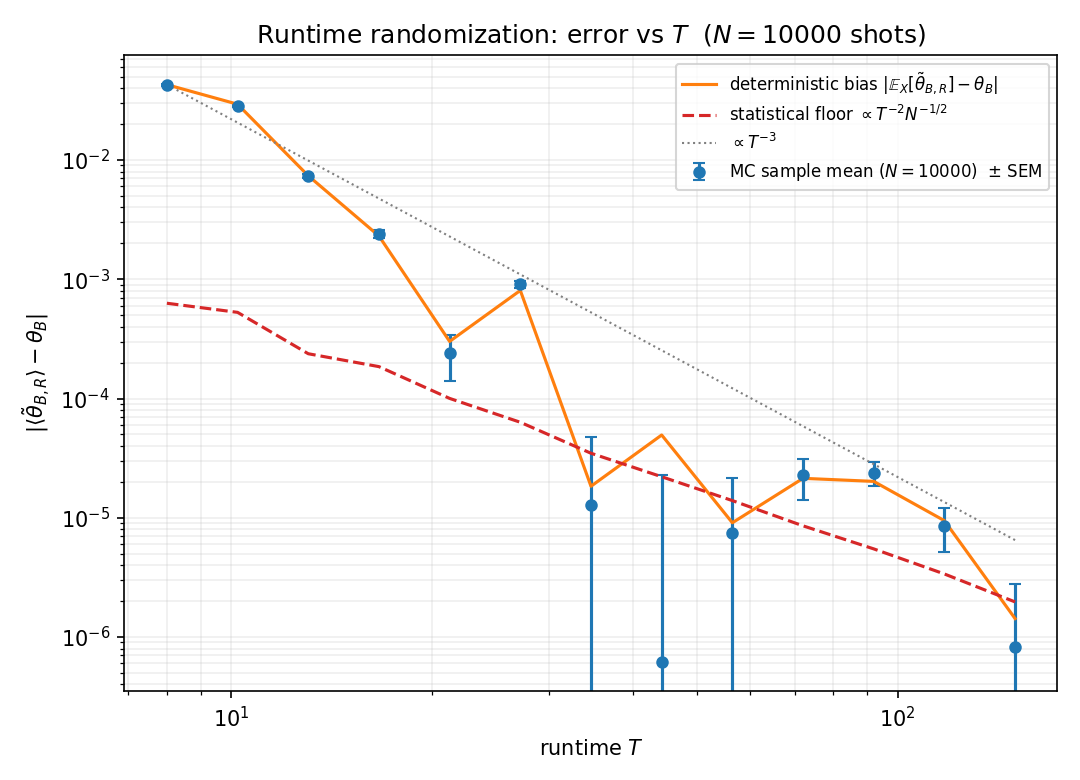
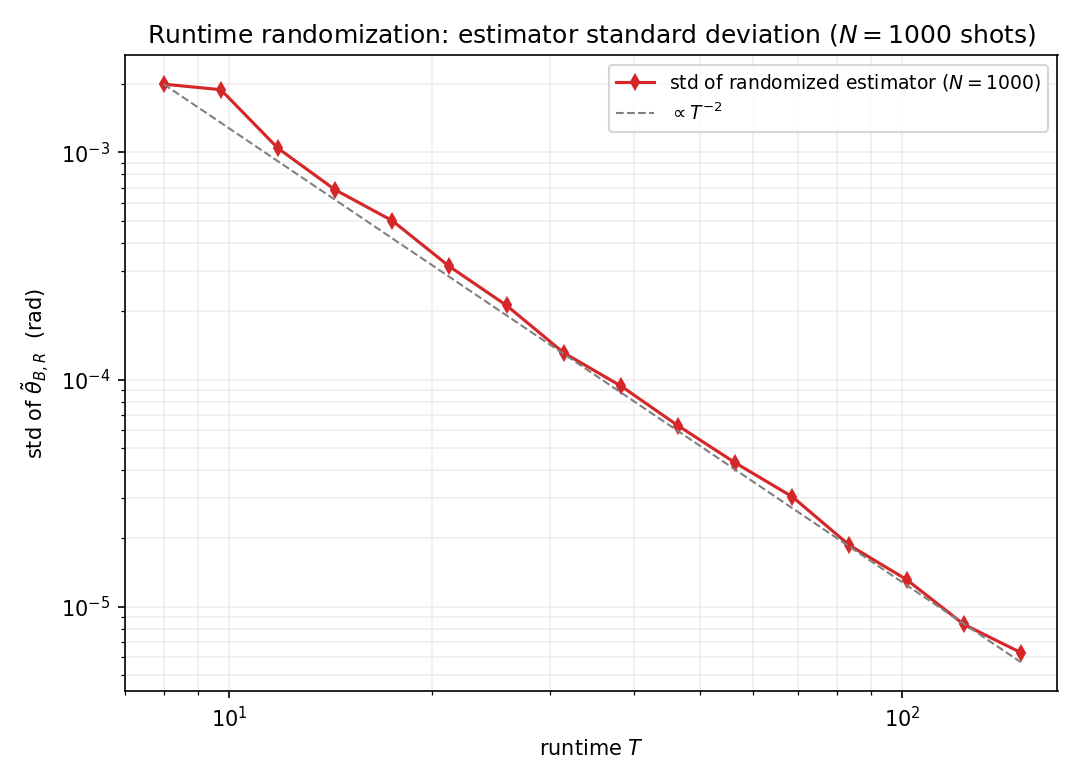
Report randomization as estimator std (~T^-2); clean up figures
- Randomization curve is now the standard deviation sigma_N = std/sqrt(N) of the
  N=1000 randomized estimator: positive-definite, clean ~T^-2 on log-log, no
  zero-crossing error-bar artifact.
- Connected line, no error bars; N reduced 10000 -> 1000.
- Fix scaling-plot left blank space via xlim (log axis was auto-ranging to 10^0).

diff --git a/experiments/fig_randomization_montecarlo.py b/experiments/fig_randomization_montecarlo.py
@@ -1,11 +1,11 @@
-r"""Actual runtime randomization by Monte Carlo (10,000 shots), error vs T.
+r"""Standard deviation of the runtime-randomized estimator vs T.
 
-Draws real random runtimes ``T_j = T X_j`` (``X_j ~ Uniform[1-lam, 1+lam]``),
-evaluates the single-event Richardson estimator at each (exact per draw), and
-averages.  The sample mean exhibits both effects the paper separates:
-
-  * the deterministic bias ``~ O(T^-3)`` (what the sample mean converges to), and
-  * the statistical floor ``~ T^-2 N^-1/2`` from the residual oscillatory sector.
+We randomize the runtime as ``T_j = T X_j`` (``X_j ~ Uniform[1-lam, 1+lam]``) and
+average the single-event Richardson estimator over ``N`` shots.  Rather than the
+(noisy, sign-changing) bias point estimate, we report the well-defined statistical
+spread of the resulting estimate -- its standard deviation
+``sigma_N = std / sqrt(N)`` -- which is positive-definite and follows a clean
+``~T^-2`` power law on a log-log axis (so the variance scales as ``~T^-4``).
 
 Run with:  uv run python experiments/fig_randomization_montecarlo.py
 Writes:    figures/randomization_montecarlo.png
@@ -19,14 +19,11 @@ import matplotlib.pyplot as plt
 import numpy as np
 
 from berry_cancellation import SpinHalfLoop
-from berry_cancellation.estimators import (
-    randomized_richardson_bias,
-    randomized_richardson_montecarlo,
-)
+from berry_cancellation.estimators import randomized_richardson_montecarlo
 
 FIG_DIR = Path(__file__).resolve().parent.parent / "figures"
 
-N_SHOTS = 10000
+N_SHOTS = 1000
 ALPHA = 2.0
 LAM = 0.5
 
@@ -37,33 +34,29 @@ def main() -> None:
     print(f"runtime randomization: uniform on [{1-LAM}, {1+LAM}], "
           f"N={N_SHOTS} shots, alpha={ALPHA}")
 
-    T = np.geomspace(8.0, 150.0, 13)
+    T = np.geomspace(8.0, 150.0, 16)
     print("running Monte Carlo sweep over T ...")
-    mean_err, sem, event_std = randomized_richardson_montecarlo(
+    # sem == std of the N-shot randomized estimate (sigma_N).
+    _, sigma_N, _ = randomized_richardson_montecarlo(
         model, T, n_shots=N_SHOTS, alpha=ALPHA, lam=LAM, seed=0
     )
-    print("computing deterministic bias (quadrature) for reference ...")
-    bias = randomized_richardson_bias(model, T, alpha=ALPHA, lam=LAM, n_nodes=129)
-    floor = event_std / np.sqrt(N_SHOTS)  # statistical floor ~ T^-2 N^-1/2
 
     fig, ax = plt.subplots(figsize=(7.2, 5.2))
-    ax.errorbar(T, np.abs(mean_err), yerr=sem, fmt="o", ms=5, capsize=3,
-                color="C0",
-                label=f"MC sample mean ($N={N_SHOTS}$)  $\\pm$ SEM")
-    ax.loglog(T, bias, "-", color="C1",
-              label=r"deterministic bias $|\mathbb{E}_X[\tilde\theta_{B,R}]-\theta_B|$")
-    ax.loglog(T, floor, "--", color="C3",
-              label=r"statistical floor $\propto T^{-2}N^{-1/2}$")
-    T0 = T[0]
-    ax.loglog(T, bias[0] * (T / T0) ** -3, ":", color="0.5", lw=1.0,
-              label=r"$\propto T^{-3}$")
-    ax.set_xlabel("runtime $T$")
-    ax.set_ylabel(r"$|\langle\tilde\theta_{B,R}\rangle - \theta_B|$")
-    ax.set_title(f"Runtime randomization: error vs $T$  ($N={N_SHOTS}$ shots)")
-    ax.legend(fontsize=8)
-    ax.grid(True, which="both", alpha=0.2)
+    ax.loglog(T, sigma_N, "d-", ms=5, color="C3",
+              label=rf"std of randomized estimator ($N={N_SHOTS}$)")
+    # T^-2 reference guide.
+    ax.loglog(T, sigma_N[0] * (T / T[0]) ** -2, "--", color="0.5", lw=1.0,
+              label=r"$\propto T^{-2}$")
 
+    ax.set_xlim(7.0, 170.0)
+    ax.set_xlabel("runtime $T$")
+    ax.set_ylabel(r"std of $\tilde\theta_{B,R}$  (rad)")
+    ax.set_title(f"Runtime randomization: estimator standard deviation "
+                 f"($N={N_SHOTS}$ shots)")
+    ax.legend(fontsize=9)
+    ax.grid(True, which="both", alpha=0.2)
     fig.tight_layout()
+
     FIG_DIR.mkdir(exist_ok=True)
     out = FIG_DIR / "randomization_montecarlo.png"
     fig.savefig(out, dpi=150)

diff --git a/experiments/fig_scaling.py b/experiments/fig_scaling.py
@@ -28,7 +28,7 @@ from berry_cancellation.estimators import (
 
 FIG_DIR = Path(__file__).resolve().parent.parent / "figures"
 
-N_SHOTS = 10000
+N_SHOTS = 1000
 
 
 def main() -> None:
@@ -47,33 +47,34 @@ def main() -> None:
     e_rich = richardson_error(model, T, alpha=alpha)
     # Real runtime randomization (Monte Carlo) on a coarser grid -- N=10000 shots
     # per base T is the expensive curve, so it uses fewer T points.
-    T_rand = np.geomspace(8.0, 150.0, 13)
+    T_rand = np.geomspace(8.0, 150.0, 16)
     print(f"running real runtime randomization (N={N_SHOTS} shots) ...")
-    e_rand, e_rand_sem, _ = randomized_richardson_montecarlo(
+    # The randomized estimator's error is statistical, not a noisy bias point:
+    # report its standard deviation sigma_N = std/sqrt(N) (positive-definite,
+    # clean ~T^-2 on log-log), returned directly as the SEM.
+    _, e_rand_std, _ = randomized_richardson_montecarlo(
         model, T_rand, n_shots=N_SHOTS, alpha=alpha, lam=0.5, seed=0
     )
-    e_rand = np.abs(e_rand)
 
     fig, ax = plt.subplots(figsize=(7.0, 5.2))
     ax.loglog(T, e_single, "o-", ms=4, label=r"single evolution  $|\varphi|$")
     ax.loglog(T, e_fr, "s-", ms=4, label=r"forward--reverse")
     ax.loglog(T, e_rich, "^-", ms=4, label=r"+ Richardson ($\alpha=2$)")
-    ax.errorbar(T_rand, e_rand, yerr=e_rand_sem, fmt="d", ms=5, capsize=2,
-                color="C3",
-                label=rf"+ runtime randomization ($N={N_SHOTS}$)")
+    ax.loglog(T_rand, e_rand_std, "d-", ms=5, color="C3",
+              label=rf"+ randomization: std ($N={N_SHOTS}$)")
 
     # Reference power-law guides, anchored at the left edge of each curve.
     T0 = T[0]
     for power, e0, style in [
         (-1, e_single[0], ":"),
         (-2, e_fr[0], "--"),
-        (-3, e_rand[0] * 4, "-."),
     ]:
         ax.loglog(T, e0 * (T / T0) ** power, style, color="0.5", lw=1.0,
                   label=rf"$\propto T^{{{power}}}$")
 
+    ax.set_xlim(7.0, 230.0)
     ax.set_xlabel("runtime $T$")
-    ax.set_ylabel(r"phase error  $|\tilde\theta_B - \theta_B|$")
+    ax.set_ylabel(r"phase error / std  (rad)")
     ax.set_title("Adiabatic error cancellation in Berry phase estimation\n"
                  "(spin-1/2 cone loop)")
     ax.legend(fontsize=8, ncol=2)

diff --git a/README.md b/README.md
@@ -51,13 +51,12 @@ two-runtime Richardson extrapolant at `T` and `αT` removes the non-oscillatory
 `T_j = T·X`, `X ∈ [1−λ, 1+λ]`, suppresses the remaining oscillatory `T⁻²` term
 by one further power of `1/T`.
 
-The randomization curve is a **real Monte Carlo** run with `N = 10000` shots:
-draw random runtimes `T_j = T·X_j`, evaluate the single-event estimator at each,
-and average. The sample mean converges to the deterministic bias `~ T⁻³` but
-carries a statistical floor `~ T⁻² N⁻¹/²` from the residual oscillatory sector;
-both regimes are visible. (The deterministic bias itself — the infinite-shot
-limit `|E_X[θ̃_{B,R}] − θ_B|` — is computed by quadrature and overlaid as a
-reference in `fig_randomization_montecarlo.py`.)
+The randomization is a **real Monte Carlo** run (`N = 1000` shots): draw random
+runtimes `T_j = T·X_j`, evaluate the single-event estimator at each, and average.
+Because uniform randomization suppresses the oscillatory bias to `~ T⁻³`, the
+estimate's residual error is **statistical**, so we report its standard deviation
+`σ_N = std/√N` (variance `= σ_N²`) rather than a noisy bias point estimate. `σ_N`
+is positive-definite and follows a clean `~ T⁻²` power law on a log-log axis.
 
 ## Layout
 
@@ -68,10 +67,10 @@ berry_cancellation/
   reference.py      Wilson-loop Berry phase, dynamical phase, angle wrapping
   estimators.py     single / forward–reverse / Richardson / randomized errors
 experiments/
-  fig_scaling.py                  main figure: error vs T for all four estimators
-                                  (randomization curve = real N=10000 Monte Carlo)
+  fig_scaling.py                  main figure: error vs T (single/FR/Richardson)
+                                  plus randomization std (real N=1000 Monte Carlo)
   fig_spin_half_check.py          Berry phase vs analytic half-solid-angle
-  fig_randomization_montecarlo.py 10k-shot randomization alone: MC mean, bias, floor
+  fig_randomization_montecarlo.py randomization estimator std vs T (~T^-2)
 tests/
   test_cancellation.py    references, unitarity, integrator convergence, slopes
 ```
@@ -85,9 +84,9 @@ integrator error is verified to sit far below the adiabatic error it measures.
 
 ```bash
 uv sync                                     # set up the environment
-uv run python experiments/fig_scaling.py    # -> figures/scaling.png (~3-4 min, 10k-shot MC)
+uv run python experiments/fig_scaling.py    # -> figures/scaling.png
 uv run python experiments/fig_spin_half_check.py
-uv run python experiments/fig_randomization_montecarlo.py  # ~3-4 min, 10k shots
+uv run python experiments/fig_randomization_montecarlo.py  # randomization std vs T
 uv run pytest                               # checks references + scaling slopes
 ```
 